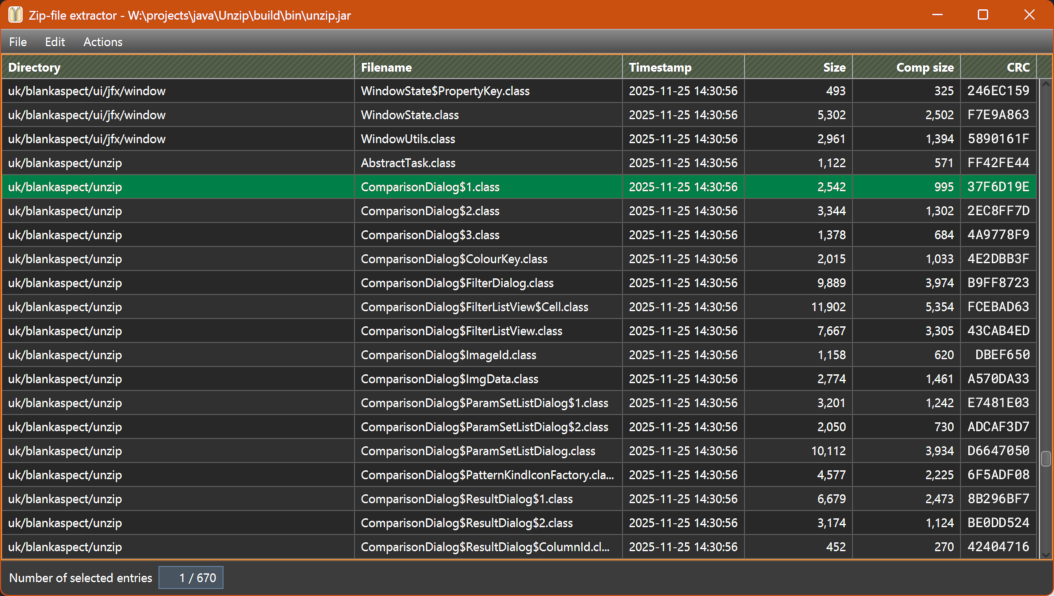
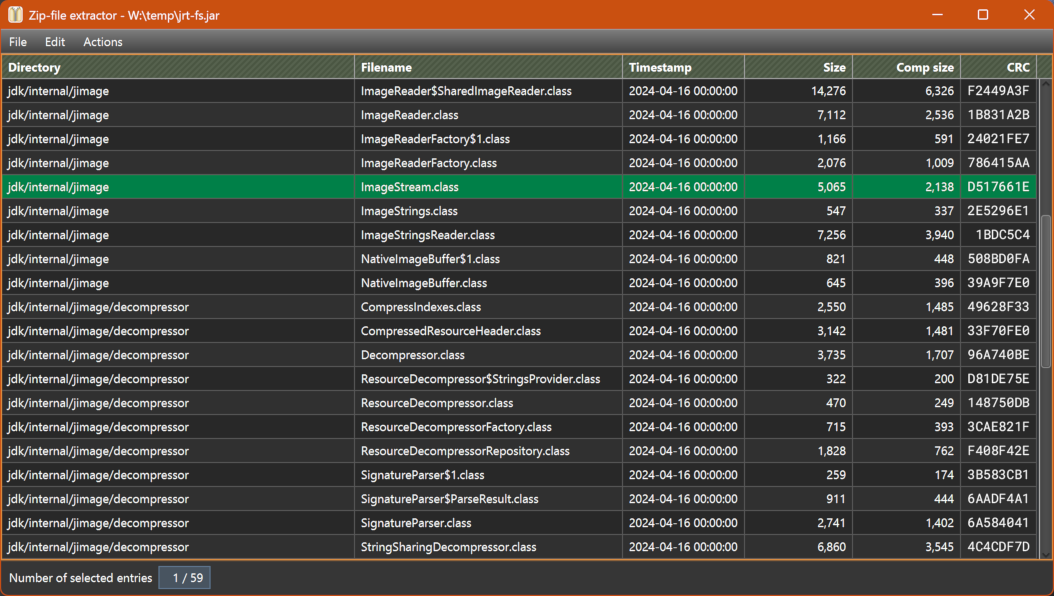
Edited some colours.

diff --git a/src/main/resources/uk/blankaspect/ui/jfx/style/themes/dark/base.css b/src/main/resources/uk/blankaspect/ui/jfx/style/themes/dark/base.css
@@ -7,7 +7,7 @@
   /* A light grey that is the base color for objects.  Instead of using
    * -fx-base directly, the sections in this file will typically use -fx-color.
    */
-  -fx-base: rgb(80, 80, 80);
+  -fx-base: rgb(72, 72, 72);
 
   /* A very light grey used for the background of windows.  See also
    * -fx-text-background-color, which should be used as the -fx-text-fill
@@ -78,7 +78,7 @@
   -fx-text-box-border: ladder(
       -fx-background,
       derive(-fx-background, 15%) 20%,
-      rgb(224, 224, 224) 30%
+      rgb(224, 224, 224) 22.75%
   );
 
   /* Lighter than -fx-background and used to provide a small highlight when
@@ -156,8 +156,8 @@
    */
   -fx-mark-color: ladder(
       -fx-color,
-      derive(-fx-color, 45%) 30%,
-      white 31%
+      derive(-fx-color, 45%) 20%,
+      white 25%
   );
 
   /* The small thin light "shadow" for mark-like objects. Typically used in
@@ -170,7 +170,7 @@
 
   /* Background color to use for selection of list cells etc. This is when
    * the control doesn't have focus or the row of a previously selected item. */
-  -fx-selection-bar-non-focused: rgb(152, 152, 152);
+  -fx-selection-bar-non-focused: rgb(112, 112, 112);
 }
 
 .list-view:focused .list-cell:filled:selected,
